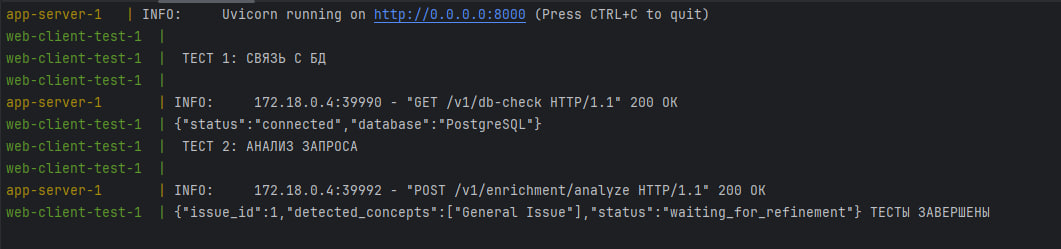
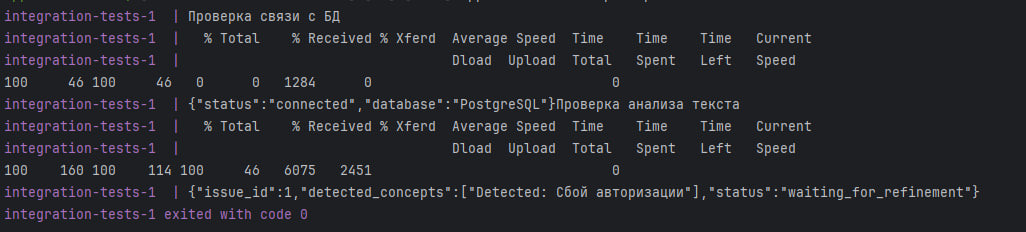
Поправил отчёт, настроил CI

diff --git a/index.html b/index.html
@@ -1,0 +1,7 @@
+<h1>AI-Assistant Ontology</h1>
+<div id="status">Загрузка...</div>
+<script>
+    fetch('/api/v1/db-check')
+        .then(r => r.json())
+        .then(data => document.getElementById('status').innerText = JSON.stringify(data));
+</script>

diff --git a/docs/Отчёт lab5.md b/docs/Отчёт lab5.md
@@ -6,13 +6,13 @@
 
 1.  app-server: Реализован на FastAPI. Содержит бизнес-логику анализа запросов и взаимодействия с онтологией.
 2.  ontology-db: СУБД PostgreSQL. Используется для хранения структурированных данных и имитации графового хранилища онтологии.
-3.  web-client-test: Легковесный контейнер на базе `curl`, который имитирует запросы клиента и выполняет автоматизированное тестирование системы после её запуска.
+3.  frontend: Веб-клиент на базе Nginx. Отображает интерфейс пользователя.
 
 ## 2. Интеграционные тесты
-В системе реализованы автоматические интеграционные тесты (контейнер web-client-test). Сценарий тестирования:
-1. Ожидание запуска сервера (`sleep`).
-2. Проверка сетевого соединения сервера с базой данных (эндпоинт `/v1/db-check`).
-3. Проверка корректности обработки POST-запроса на анализ текста.
+Интеграционные тесты реализованы контейнером integration-tests. Сценарий тестирования:
+1. Ожидание готовности сервисов (`sleep`).
+2. Проверка связи приложения с БД (эндпоинт `/v1/db-check`).
+3. Валидация бизнес-логики через тестовый POST-запрос на `/v1/enrichment/analyze`
 
 ![Terminal.jpg](..%2Fimg%2FTerminal.jpg)
 
